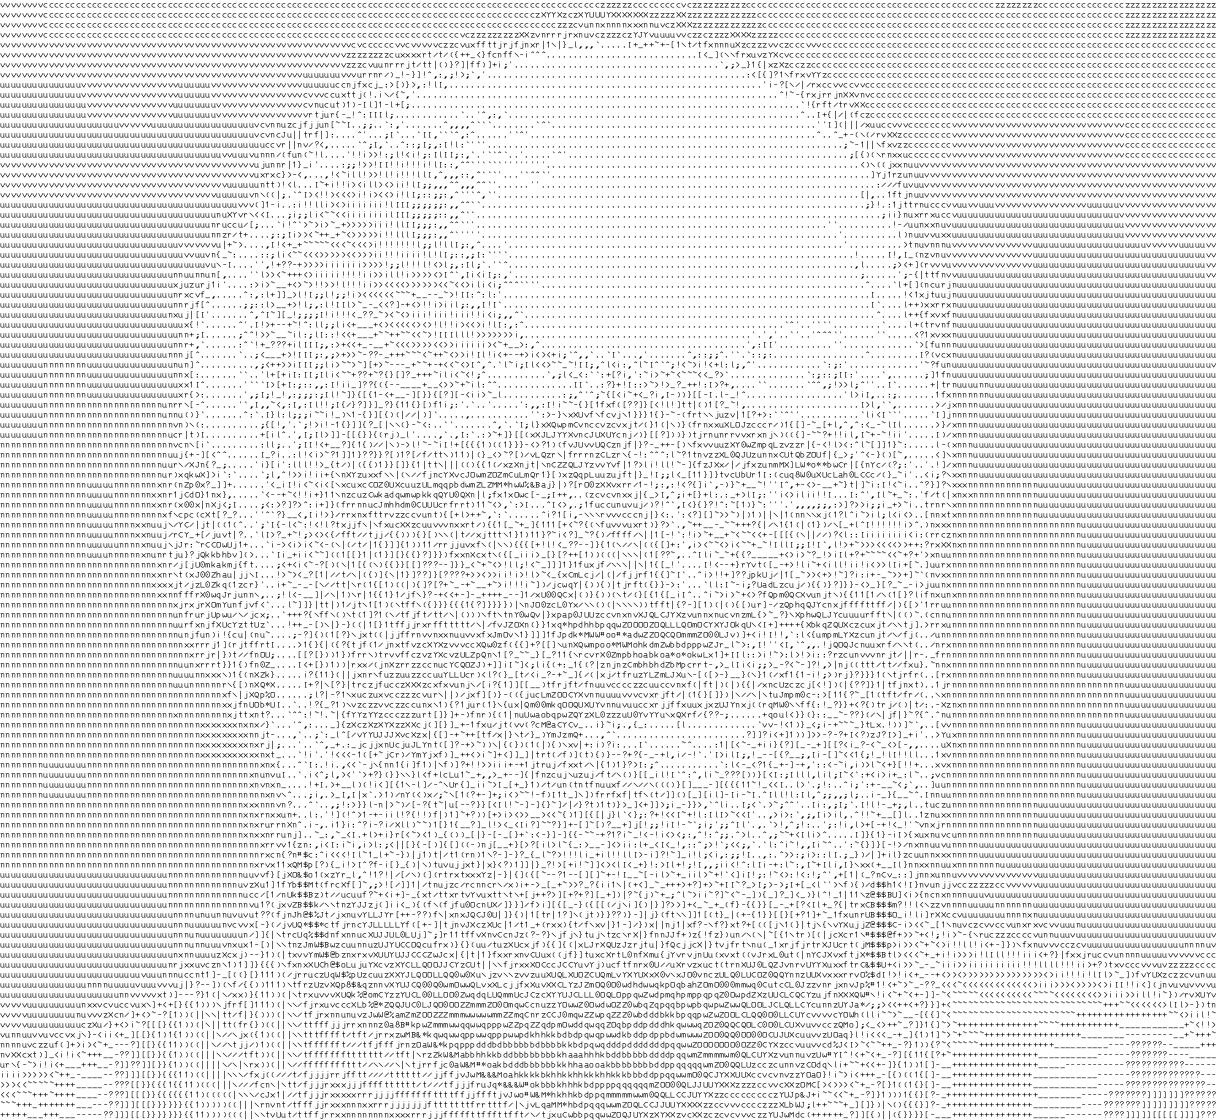
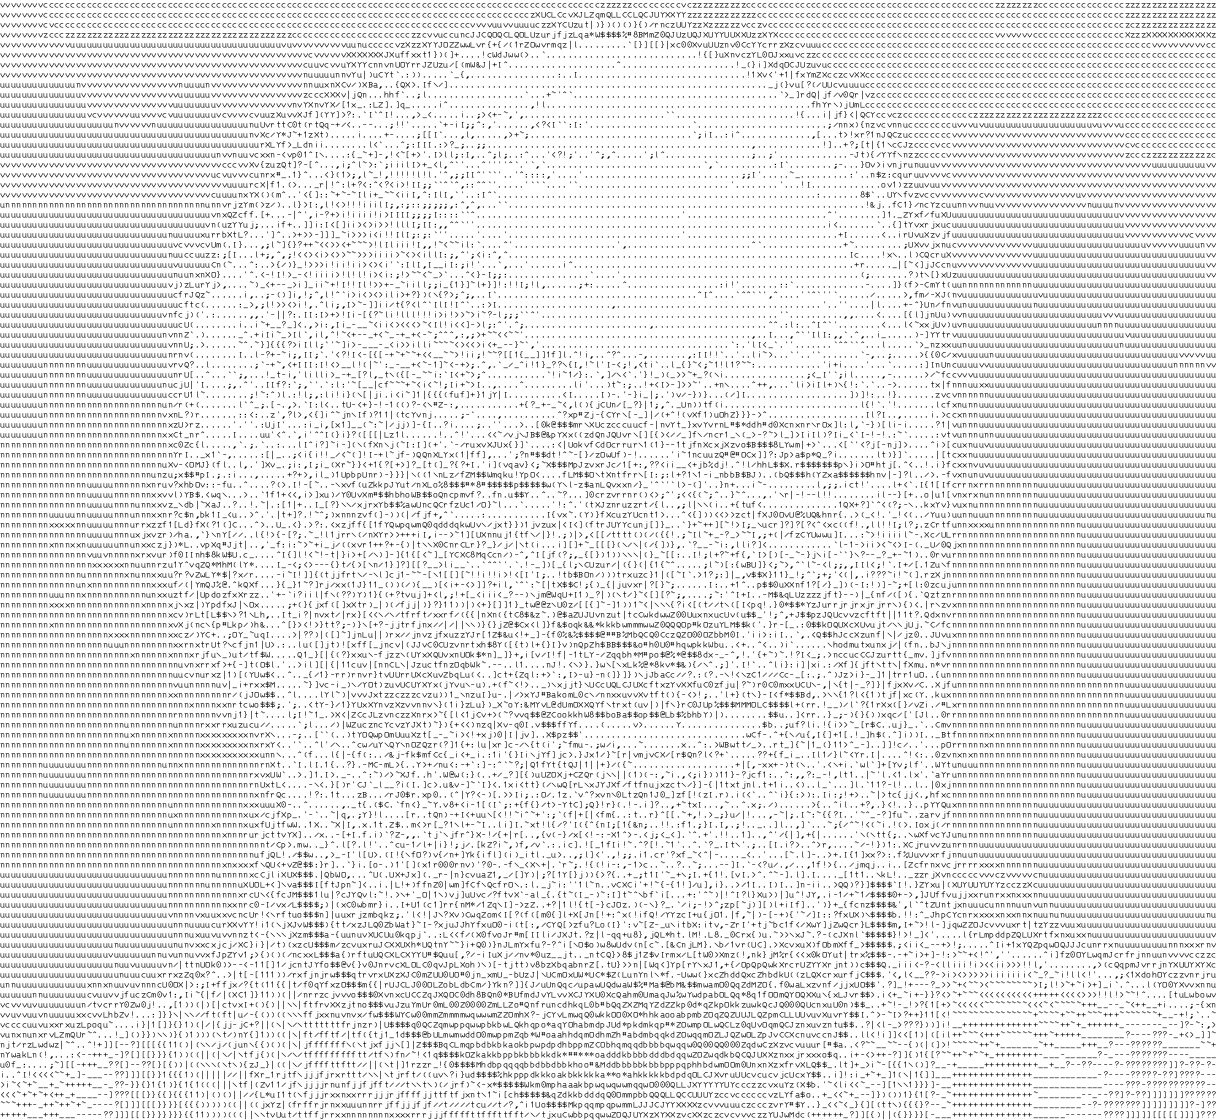
Add filters

diff --git a/main.py b/main.py
@@ -1,11 +1,11 @@
-from PIL import Image, ImageDraw, ImageFont
+from PIL import Image, ImageDraw, ImageFont, ImageFilter
 
 # Constants
 FONT = ImageFont.truetype("nerd_font.ttf", 10)
 ASPECT_RATIO = 0.5
 ASCII_CHAR_MODES = {
-    "1": "@%#*+=-:. ",
-    "L": None,  # Temporary placeholder
+    "1": "@%#*+=-:. ",  # Bitmap
+    "L": None,          # Grayscale
     "RGB": "$@B%8&WM#*oahkbdpqwmZO0QLCJUYXzcvunxrjft/\|()1{}[]?-_+~<>i!lI;:,^`'."
 }
 ASCII_CHAR_MODES["L"] = ASCII_CHAR_MODES["RGB"]
@@ -63,7 +63,6 @@ def main():
     Function that generates ascii from input image
     ----------------------------------------------------------------
     TODO:
-        - Retouch image using filters to generate more quality ascii
         - Add Sequences on img gen to create ascii animation
     """
 
@@ -86,7 +85,12 @@ def main():
                          (new_width / orig_width))
 
         resized_img = gray_img.resize((new_width, new_height))
-        pixels = resized_img.getdata()
+        # modify image
+        modified_img = resized_img.filter(ImageFilter.DETAIL)
+        modified_img = modified_img.filter(ImageFilter.SHARPEN)
+        # modified_img.save("temp.png")
+        # -------- end
+        pixels = modified_img.getdata()
 
         ascii_str = gen_ascii(pixels, new_width, file_name, ascii_chars)
 
